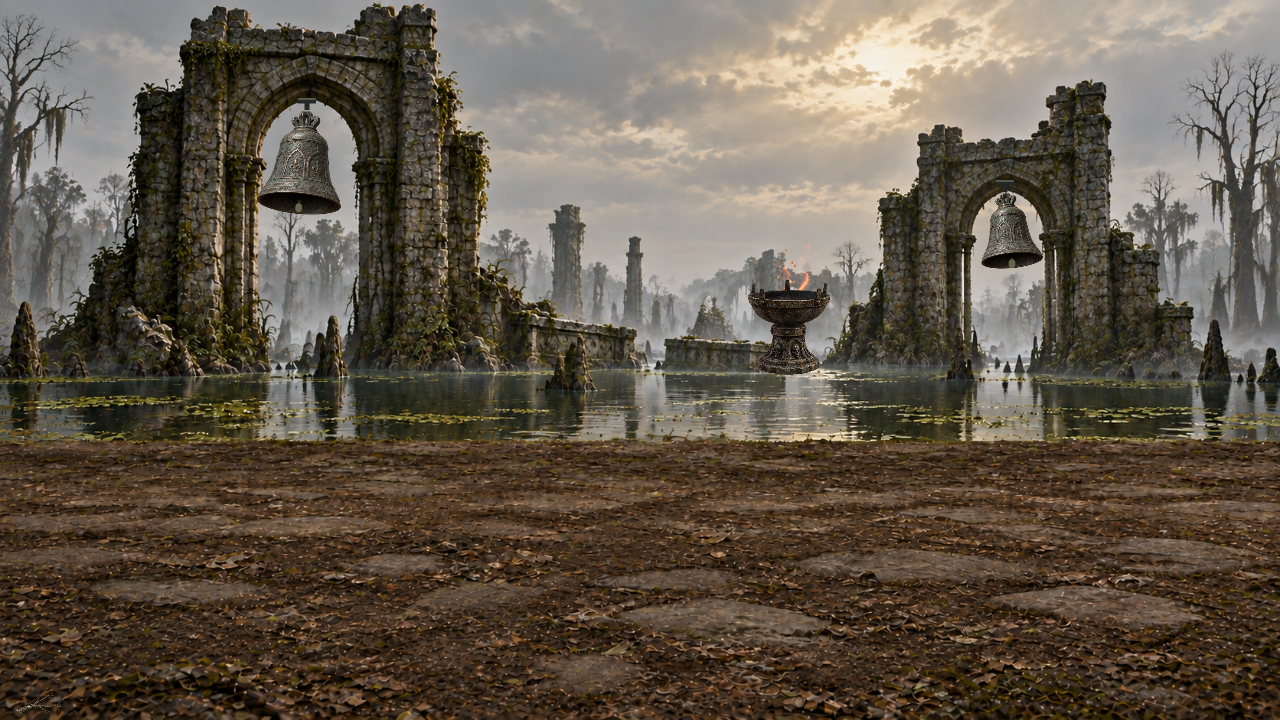
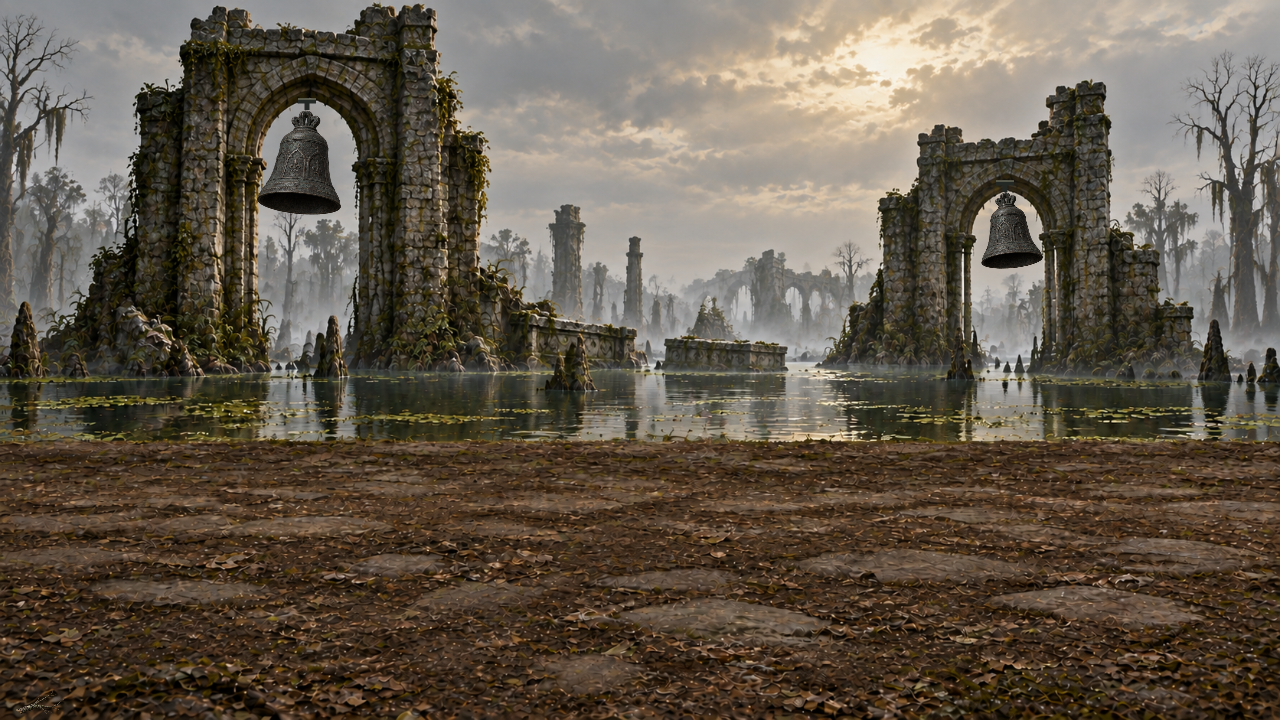
Integrate sparse birds and shade swamp bells for review

Changed region(s): [[0.5625, 0.3667, 0.6562, 0.5194], [0.1875, 0.1528, 0.25, 0.275], [0.75, 0.275, 0.8125, 0.3667]]

diff --git a/studies/backgrounds/swamp-v3/scene.js b/studies/backgrounds/swamp-v3/scene.js
@@ -1,13 +1,12 @@
-export const duration=24;
+export const duration=120;
 export const screens=[
- {name:'Leechwater Crossing',file:'crossing.png',mood:'Open water. Wind in the cypress.',motion:'A flock of marsh birds crosses the water with staggered wingbeats. Longer moss strands catch the wind while reeds bow along the bank.',effects:['Hanging moss','Crossing marsh flock','Bank reeds'],bounds:[[.08,.1,.38,.4],[0,.24,1,.3],[.84,.48,.14,.15]]},
+ {name:'Leechwater Crossing',file:'crossing.png',mood:'Open water. Wind in the cypress.',motion:'Occasional small groups of distant marsh birds cross the water with varied routes, spacing and wingbeats. Longer moss strands catch the wind while reeds bow along the bank.',effects:['Hanging moss','Crossing marsh flock','Bank reeds'],bounds:[[.08,.1,.38,.4],[0,.24,1,.3],[.84,.48,.14,.15]]},
  {name:'The Witch’s Hollow',file:'hollow.png',mood:'An inhabited hollow, dense with old rituals.',motion:'A dense mix of skull charms, paired bones and rib mobiles swings at different lengths. Rag strips flutter between them and fungal spores drift from the hollow.',effects:['Bone charms','Rag strips','Fungal spores'],bounds:[[.2,.22,.3,.32],[.29,.22,.2,.34],[.22,.3,.22,.25]]},
- {name:'The Drowned Procession',file:'procession.png',mood:'Two bell towers. A broken ceremonial route.',motion:'Two bells swing on short iron suspension brackets, with clappers seated inside their mouths. A funeral brazier burns beside the processional route, shedding rising embers.',effects:['Great funeral bell','Small funeral bell','Funeral brazier and embers'],bounds:[[.14,.12,.2,.35],[.7,.2,.16,.3],[.58,.29,.09,.24]]},
+ {name:'The Drowned Procession',file:'procession.png',mood:'Two bell towers. A broken ceremonial route.',motion:'Two weathered bells swing in the shade of their stone arches on short iron suspension brackets.',effects:['Great funeral bell','Small funeral bell'],bounds:[[.14,.12,.2,.35],[.7,.2,.16,.3]]},
  {name:'The Sunken Throne',file:'throne.png',mood:'The court survives. The king still rules.',motion:'Two tattered royal standards ripple below their fixed crossbars. Corroded ceremonial pendants turn and sway beside the raised throne.',effects:['Royal standards','Iron pendants'],bounds:[[.28,.25,.14,.29],[.61,.25,.13,.29]]}
 ];
 export const assetFiles=Object.fromEntries(['moss','charm','rag','bell','banner','pendant','reeds','branch','heron'].map(key=>[key,key+'.png']));
-assetFiles.fire='fire.png';
-for(const key of ['paired-bones','ribs','brazier','bird-skull'])assetFiles[key]=key+'.png';
+for(const key of ['paired-bones','ribs','bird-skull'])assetFiles[key]=key+'.png';
 const TAU=Math.PI*2;
 const sine=(t,period,offset=0)=>Math.sin(TAU*(t/period+offset));
 const random=i=>{const a=Math.sin(i*127.1+311.7)*43758.5453;return a-Math.floor(a)};
@@ -34,38 +33,39 @@ function ribbon(g,image,x,y,w,h,t,phase,amplitude,mode='hang'){
 function rope(g,x,y,length,angle,width=1.4){
  g.save();g.translate(x,y);g.rotate(angle);g.lineWidth=width;g.strokeStyle='#352f22';g.beginPath();g.moveTo(0,0);g.lineTo(0,length);g.stroke();g.lineWidth=.45;g.strokeStyle='#8e8369';g.beginPath();g.moveTo(-.4,0);g.lineTo(-.4,length);g.stroke();g.restore();
 }
-function charm(g,im,x,y,w,h,t,phase,active){
- const a=active?.09*gust(t,phase):0;
- rope(g,x,y,13,a);sprite(g,im,x+Math.sin(-a)*13,y+Math.cos(a)*13,w,h,a);
-}
-function chain(g,x,y,length,t,active,phase=0){
- const a=active?.025*sine(t,8,phase):0;
- g.save();g.translate(x,y);g.rotate(a);
- for(let yy=0;yy<length;yy+=5){g.lineWidth=1.5;g.strokeStyle=yy%10?'#595a4c':'#272d2b';g.beginPath();g.ellipse(0,yy,yy%10?1.3:2.7,3.8,0,0,TAU);g.stroke()}
- g.restore();
+function charm(g,im,x,y,w,h,t,phase,active,flip=1,tilt=0){
+ const a=tilt+(active?.09*gust(t,phase):0);
+ rope(g,x,y,13,a);g.save();g.translate(x+Math.sin(-a)*13,y+Math.cos(a)*13);g.rotate(a);g.scale(flip,1);sprite(g,im,0,0,w,h);g.restore();
 }
 function bell(g,image,x,y,w,h,t,period,phase,active){
  const a=active?.105*sine(t,period,phase):0;
  const fit=Math.min(w/image.width,h/image.height);w=image.width*fit;h=image.height*fit;
- // Short fixed iron yoke. Only the bell and its internal clapper pivot.
+ // Fixed iron yoke; shaded bell with no exposed clapper.
  g.save();g.translate(x,y);
  g.strokeStyle='#232825';g.lineWidth=5;g.beginPath();g.moveTo(-9,3);g.lineTo(9,3);g.moveTo(0,0);g.lineTo(0,12);g.stroke();
  g.strokeStyle='#8b8872';g.lineWidth=1;g.beginPath();g.moveTo(-9,1);g.lineTo(9,1);g.stroke();
  g.translate(0,12);g.rotate(a);
- g.drawImage(image,-w/2,0,w,h);
- g.save();g.translate(0,h*.86);g.rotate(active?-.17*sine(t,period,phase+.14):0);
- g.strokeStyle='#242820';g.lineWidth=2.7;g.beginPath();g.moveTo(0,0);g.lineTo(0,h*.075);g.stroke();
- g.fillStyle='#69644b';g.beginPath();g.ellipse(0,h*.075,3.4,4.5,0,0,TAU);g.fill();g.restore();
+ g.filter='brightness(0.70) saturate(0.72)';g.drawImage(image,-w/2,0,w,h);
  g.restore();
 }
+
 function flock(g,t,active){
- const ft=active?t:0;
- for(let i=0;i<7;i++){
-  // Reset well outside the viewport; each flock follows a wide diagonal route.
-  const p=((ft/12+.2+i*.019)%1);
-  const x=-200+p*1680+i*12,y=206+Math.sin(p*Math.PI)*48+random(i+60)*76;
-  const size=19+(i%3)*3,flap=sine(ft, .75,i*.17);
-  g.save();g.translate(x,y);g.rotate(-.07);g.fillStyle='#262e2b';
+ if(!active)return;
+ for(let group=0;group<3;group++){
+ const seed=31+group*19,start=3+group*40+random(seed)*6;
+ const travel=12+random(seed+1)*5,elapsed=t-start;
+ if(elapsed<0||elapsed>travel+3)continue;
+ const count=2+Math.floor(random(seed+2)*3),direction=random(seed+3)>.5?1:-1;
+ for(let i=0;i<count;i++){
+  const birdSeed=seed+i*7,p=(elapsed-random(birdSeed+4)*2)/travel;
+  const x=direction===1?-90+p*1460:1370-p*1460;
+  const y=205+random(seed+5)*60+random(birdSeed+6)*35+Math.sin(p*Math.PI)*13;
+  const scale=.42+random(birdSeed+8)*.22;
+  const size=18+random(birdSeed+9)*6;
+  const flap=Math.sin(elapsed*(6+random(birdSeed+10)*3)+i*2.4);
+  g.save();g.translate(x,y);g.scale(direction*scale,scale);g.rotate(-.04);
+  // Muted distant plumage shares the gray-green atmospheric values of the trees.
+  g.fillStyle='#626b61';g.globalAlpha=.78;
   g.beginPath();g.ellipse(0,0,7,2.8,-.08,0,TAU);g.fill();
   g.beginPath();g.moveTo(-3,0);g.quadraticCurveTo(-size*.55,-7-flap*size*.7,-size,-3-flap*size);
   g.lineTo(-size*.7,2-flap*size*.75);g.quadraticCurveTo(-size*.25,5,3,2);g.fill();
@@ -74,21 +74,7 @@ function flock(g,t,active){
   g.beginPath();g.moveTo(5,-1);g.lineTo(11,-4);g.lineTo(16,-3);g.lineTo(9,-1);g.lineTo(6,2);g.fill();
   g.beginPath();g.moveTo(-5,0);g.lineTo(-14,3);g.lineTo(-6,3);g.fill();g.restore();
  }
-}
-function brazier(g,fire,t,active,body){
- const x=789,y=373,ft=active?t:0;
- g.save();g.translate(x,y);
- // Existing 8x8 game fire atlas: discrete frames, no frame blending.
- const frame=Math.floor(ft*24)%64,sw=fire.width/8,sh=fire.height/8;
- g.globalCompositeOperation='screen';
- g.drawImage(fire,frame%8*sw,Math.floor(frame/8)*sh,sw,sh,-43,-159,86,99);
- g.globalCompositeOperation='source-over';
- sprite(g,body,0,-94,84,96);
- if(active)for(let i=0;i<10;i++){
-  const p=(ft/3+random(i))%1;g.globalAlpha=Math.sin(p*Math.PI);
-  g.fillStyle=i%2?'#e9a94d':'#cc6629';g.fillRect(Math.sin(p*5+i)*12,-67-p*76,1.5,2.5);
  }
- g.restore();
 }
 export function drawScenery(g,index,image,a,time,enabled=[true,true,true]){
  const t=((time%duration)+duration)%duration;
@@ -98,13 +84,12 @@ export function drawScenery(g,index,image,a,time,enabled=[true,true,true]){
   flock(g,t,enabled[1]);
   for(const [x,y,w,h,p] of [[1170,386,72,81,.1],[1219,395,46,61,.6]])ribbon(g,a.reeds,x,y,w,h,t,p,enabled[2]?4:0,'root');
  }else if(index===1){
-  for(const [x,y,w,h,p] of [[290,180,38,122,.1],[515,207,32,108,.45],[558,180,35,133,.8],[361,124,26,104,.63],[459,149,31,139,.27]])charm(g,p===.63||p===.8?a['bird-skull']:a.charm,x,y,w,h,t,p,enabled[0]);
+  for(const [x,y,w,h,p] of [[290,180,38,122,.1],[515,207,32,108,.45],[558,180,35,133,.8],[361,124,26,104,.63],[459,149,31,139,.27]])charm(g,p===.63||p===.8?a['bird-skull']:a.charm,x,y,w,h,t,p,enabled[0],p===.45||p===.63?-1:1,p===.27?.11:p===.8?-.08:0);
   for(const [x,y,l,p,k] of [[321,154,57,.13,0],[405,126,67,.51,1],[487,185,63,.76,0],[538,186,96,.33,1]])charm(g,k===0?a['paired-bones']:a.ribs,x,y,40,l+46,t,p,enabled[0]);
   for(const [x,y,w,h,p] of [[335,171,19,103,.3],[488,183,16,88,.8]])ribbon(g,a.rag,x,y,w,h,t,p,enabled[1]?8:0);
  }else if(index===2){
   bell(g,a.bell,307,98,91,105,t,8,.06,enabled[0]);
   bell(g,a.bell,1005,180,63,77,t,6,.39,enabled[1]);
-  brazier(g,a.fire,t,enabled[2],a.brazier);
  }else{
   for(const [x,y,w,h,p] of [[412,99,80,163,.12],[872,99,80,163,.68]])ribbon(g,a.banner,x,y,w,h,t,p,enabled[0]?11:0);
   for(const [x,y,w,h,p] of [[357,106,24,78,.2],[921,106,24,78,.7]]){

diff --git a/studies/backgrounds/swamp-v3/index.html b/studies/backgrounds/swamp-v3/index.html
@@ -8,6 +8,6 @@
 <nav aria-label="Choose a background"></nav>
 <div class="tools"><button id="play">Pause</button><button id="step">Step 1 frame</button><button id="reset">Restart</button><label>Speed <select id="speed"><option value="0.5">½×</option><option value="1" selected>1×</option><option value="2">2×</option></select></label><label><input id="foreground" type="checkbox" checked> Foreground</label><label><input id="wind" type="checkbox" checked> Foreground motion</label><label><input id="compare" type="checkbox"> Previous scene</label><label><input id="still" type="checkbox"> Still art</label><label><input id="lane" type="checkbox"> Fighting lane</label><label><input id="scale" type="checkbox"> Actor scale</label><label><input id="bounds" type="checkbox"> Effect bounds</label><label><input id="crop" type="checkbox"> 16:9 game crop</label><button id="fullscreen">Fullscreen</button></div>
 <div class="tools"><label><input id="foreground-only" type="checkbox"> Foreground only</label><button id="export-foreground">Export foreground PNG</button><span class="note">Separate transparent layer above actors</span></div><div class="stage" id="stage" role="img" aria-label="Layered swamp preview; click to place actor"><canvas id="scene-layer" width="1280" height="720" aria-label="Background and atmosphere layer"></canvas><canvas id="actor-layer" width="1280" height="720" aria-label="Actor layer"></canvas><canvas id="foreground-layer" width="1280" height="720" aria-label="Transparent foreground layer"></canvas><canvas id="guide-layer" width="1280" height="720" aria-label="Review guides"></canvas></div>
-<div class="tools"><span id="clock">0.00 / 24.00s</span><input aria-label="Loop time" id="timeline" type="range" min="0" max="24" step="0.0166667" value="0"><label><input id="seam" type="checkbox"> Loop seam</label></div>
-<h2 id="name"></h2><p id="description"></p><div class="tools" id="effects"></div><p class="note">Click the arena to place the actor guide and inspect foreground overlap. Independent animations share a seamless 24-second cycle. Local study; not yet integrated into combat. <a href="../swamp-v2/index.html">Compare v2</a></p>
-</main><script type="module" src="./preview.js?revision=2"></script></body></html>
+<div class="tools"><span id="clock">0.00 / 120.00s</span><input aria-label="Loop time" id="timeline" type="range" min="0" max="120" step="0.0166667" value="0"><label><input id="seam" type="checkbox"> Loop seam</label></div>
+<h2 id="name"></h2><p id="description"></p><div class="tools" id="effects"></div><p class="note">Click the arena to place the actor guide and inspect foreground overlap. Independent animations share a seamless 120-second cycle. Local study; not yet integrated into combat. <a href="../swamp-v2/index.html">Compare v2</a></p>
+</main><script type="module" src="./preview.js?revision=3"></script></body></html>

diff --git a/studies/backgrounds/swamp-v3/preview.js b/studies/backgrounds/swamp-v3/preview.js
@@ -1,4 +1,4 @@
-import {screens,duration,assetFiles,prepareAssets,drawScenery,drawAtmosphere,drawForeground,drawActor} from './scene.js?revision=2';
+import {screens,duration,assetFiles,prepareAssets,drawScenery,drawAtmosphere,drawForeground,drawActor} from './scene.js?revision=3';
 const $=id=>document.getElementById(id),canvas=$('scene-layer'),g=canvas.getContext('2d');
 const actorCanvas=$('actor-layer'),actorContext=actorCanvas.getContext('2d');
 const foregroundCanvas=$('foreground-layer'),foregroundContext=foregroundCanvas.getContext('2d');

diff --git a/studies/backgrounds/swamp-v3/README.md b/studies/backgrounds/swamp-v3/README.md
@@ -6,15 +6,17 @@ Review study only; native game assets remain unchanged.
 
 | Scene | Animated details | Foreground |
 | --- | --- | --- |
-| Leechwater Crossing | Windblown moss, crossing marsh bird flock with independent wingbeats, rooted reeds | Sparse low branch and reeds at edges |
+| Leechwater Crossing | Windblown moss, infrequent varied distant bird groups with independent wingbeats, rooted reeds | Sparse low branch and reeds at edges |
 | The Witch’s Hollow | Nine varied skull, bird skull, paired bone and rib charms; fluttering rags; drifting fungal spores | Small corner branch |
-| The Drowned Procession | Two independently swinging bells on short iron yokes with internal clappers, burning funeral brazier and rising embers | Small corner debris |
+| The Drowned Procession | Two shaded bells on short iron yokes; no exposed clappers or fire | Small corner debris |
 | The Sunken Throne | Rippling royal standards, turning iron pendants | None |
 
-New paintings separate the open crossing, inhabited hollow, paired bell ruins and enlarged royal dais. Generated cutouts retain transparency and aspect ratio. Cloth and moss deform in narrow strips from fixed attachments; no animation crossfades or blur. Foreground is a separate canvas. All motion repeats over 24 seconds.
+New paintings separate the open crossing, inhabited hollow, paired bell ruins and enlarged royal dais. Generated cutouts retain transparency and aspect ratio. Cloth and moss deform in narrow strips from fixed attachments; no animation crossfades or blur. Foreground is a separate canvas. All motion repeats over 120 seconds.
 
 Use individual effect toggles, pause/frame step, timeline, speed, foreground isolation, actor guide, previous-scene comparison and PNG export to review. Previous-scene comparison shows the original painting.
 
 Art provenance and prompts are in art-prompts.json. Rebuild isolated sprites with node tools/godot/bake-swamp-v3-props.mjs. Validate loops, effect controls and foreground clearance with node tools/godot/check-swamp-v3.mjs; it also renders review images and a contact sheet.
 
 Revision: larger scene 1 motion, varied generated bone props, shorter bell suspension and funeral fire. Scene 4 is unchanged. revision-prompts.json records the new prop sheet and existing game fire source. Rebuild the additional props with node tools/godot/bake-swamp-v3-revision.mjs.
+
+Review revision 3: sparse irregular bird passes separated by long quiet periods, distant muted plumage, mirrored and tilted skull charms, shaded bells without exposed clappers. Funeral fire removed. Throne remains unchanged.
